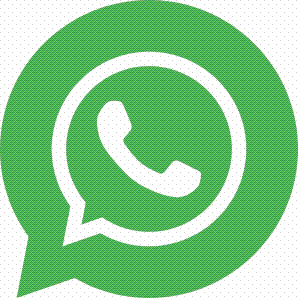
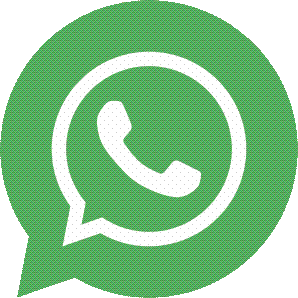
Make floating WhatsApp mark transparent

diff --git a/src/styles.css b/src/styles.css
@@ -23,3 +23,7 @@
 /* Social placeholders and official WhatsApp mark */
 .footer-socials{display:flex;flex-direction:column;gap:7px;margin-top:11px}.footer-social-label{font-family:var(--mono);font-size:8px;letter-spacing:.1em;text-transform:uppercase;color:#686868}.social-button{display:inline-flex;align-items:center;gap:8px;width:max-content;padding:0;border:0;background:transparent;color:#777;cursor:not-allowed;font-size:12px;text-align:left}.social-button:disabled{opacity:.72}.social-button svg{color:#8a8a8a}.floating-whatsapp{background:#fff;transition:width .25s,background .25s}.floating-whatsapp:hover{background:#fff}.floating-whatsapp img{width:31px;height:31px;object-fit:contain;flex:0 0 auto}
 @media (prefers-reduced-motion:reduce){.floating-whatsapp{transition:none!important}}
+
+
+/* Floating WhatsApp uses only the transparent supplied mark */
+.floating-whatsapp{background:transparent;box-shadow:none}.floating-whatsapp:hover{background:transparent}
